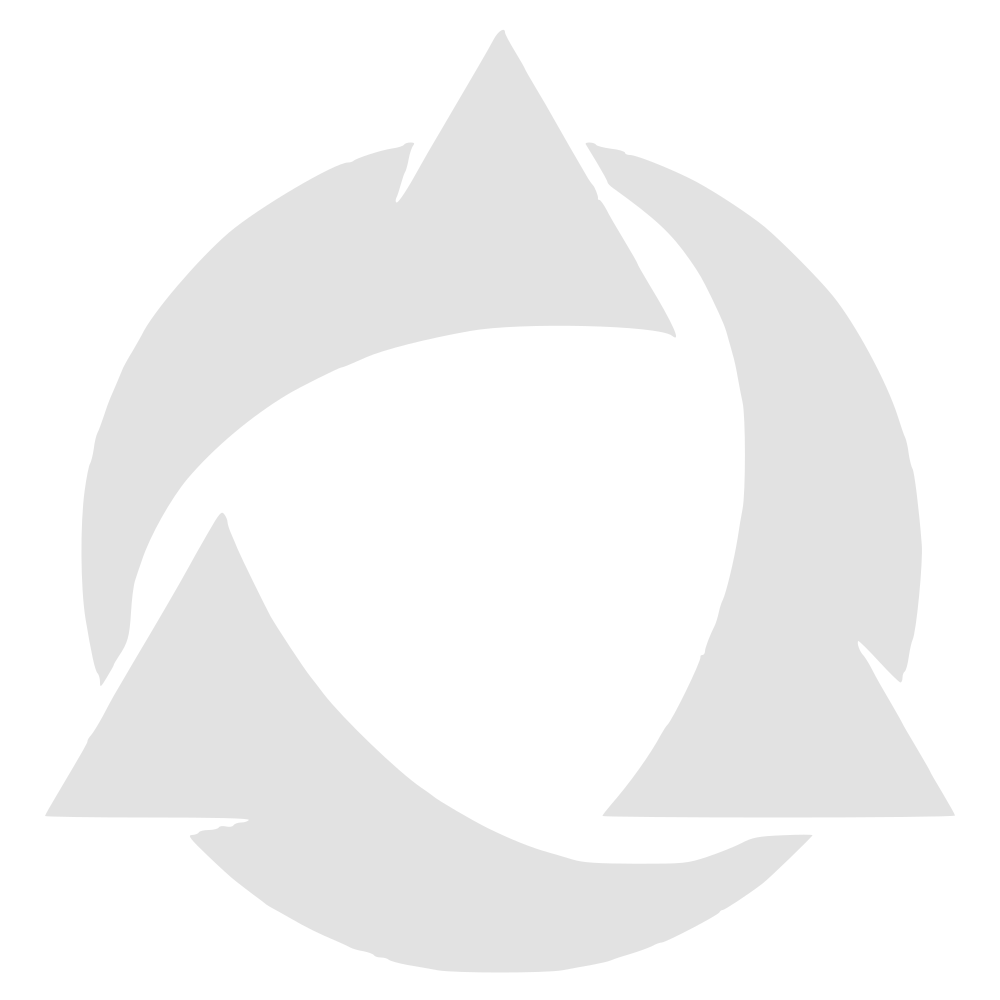
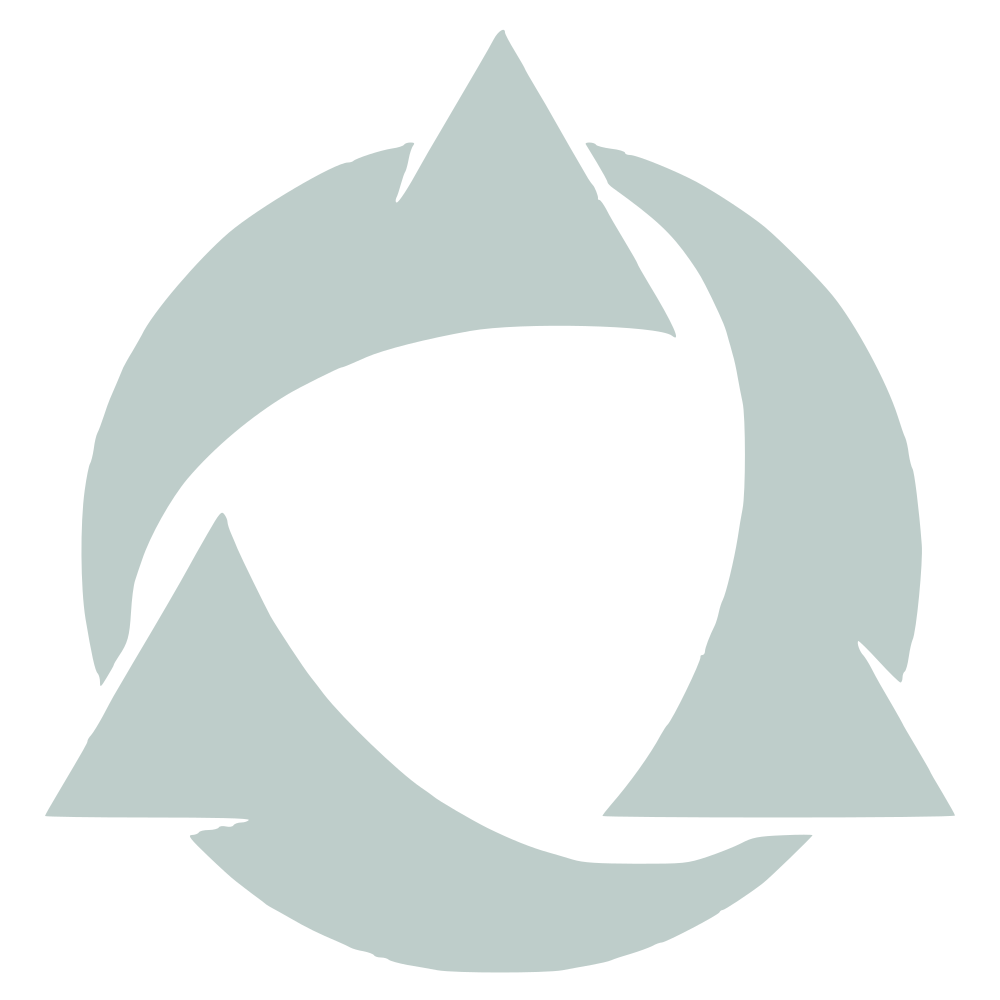
Update styling for teal FO theme

diff --git a/css/style.css b/css/style.css
@@ -20,3 +20,373 @@
 
 .md-main-content {
     background-color: #FAFAFA; }
+
+md-list-item p {
+    font-weight: normal; }
+
+md-list-item.active, md-list-item.active md-icon {
+    color: #2196F3; }
+
+.sidenav-sub-item {
+    padding-left: 36px; }
+
+.sidenav-sub-item md-icon {
+    padding-right: 16px; }
+
+md-toolbar.md-table-toolbar.ng-hide {
+    display: none; }
+
+md-toolbar.md-table-toolbar.alternate .md-toolbar-tools {
+    color: #1e88e5;
+    font-size: 16px;
+    background-color: #e3f2fd; }
+
+md-toolbar.md-table-toolbar form {
+    margin-left: 16px; }
+
+md-toolbar.md-table-toolbar form > input {
+    width: 100%;
+    margin: 0;
+    border: none;
+    color: rgba(0, 0, 0, 0.87); }
+
+md-toolbar.md-table-toolbar form > input:focus {
+    outline: none; }
+
+md-input-container .hint {
+    position: absolute;
+    left: 2px;
+    right: auto;
+    bottom: 7px;
+    /* Copy styles from ng-messages */
+    font-size: 12px;
+    line-height: 14px;
+    transition: all 0.3s cubic-bezier(0.55, 0, 0.55, 0.2);
+    /* Set our own color */
+    color: grey; }
+
+md-input-container .hint.ng-hide, md-input-container .hint.ng-enter, md-input-container .hint.ng-leave.ng-leave-active {
+    bottom: 26px;
+    opacity: 0; }
+
+md-input-container .hint.ng-leave, md-input-container .hint.ng-enter.ng-enter-active {
+    bottom: 7px;
+    opacity: 1; }
+
+.md-padding-left {
+    padding-left: 16px;
+}
+
+.md-padding-right {
+    padding-right: 16px;
+}
+
+.clickable-rows {
+    cursor: pointer;
+    text-decoration: underline;
+}
+
+.bold {
+    font-weight: bold;
+}
+
+.txtright {
+    text-align: right;
+}
+
+.text-blue {
+    color: #2196F3;
+}
+
+.no-list-style {
+    list-style:none;
+}
+
+.md-card-info {
+    background-color: #E3F2FD;
+    color: #0D47A1;
+}
+
+.md-html-table {
+    border: none;
+    border-collapse: collapse;
+    width: 100%;
+}
+
+.md-errors-spacer {
+    min-height: 0 !important;
+}
+
+.md-html-table td, .md-html-table th {
+    border: 1px solid #DDDDDD;
+    padding: 8px;
+}
+
+.md-html-table td[disabled] {
+    background: #CCCCCC;
+}
+
+/** TREE VIEW **/
+
+.md-treeview li>a, .md-treeview.md-treeview-default li>a, .md-treeview.md-treeview-default>a, .md-treeview>a {
+    color: #555;
+    background-color: transparent;
+    text-decoration: none;
+    -webkit-transition-property: background-color;
+    transition-property: background-color;
+    -webkit-transition-duration: .3s;
+    transition-duration: .3s;
+    -webkit-transition-timing-function: linear;
+    transition-timing-function: linear;
+}
+.md-treeview li>a:active, .md-treeview li>a:focus, .md-treeview li>a:hover, .md-treeview.md-treeview-default li>a:active, .md-treeview.md-treeview-default li>a:focus, .md-treeview.md-treeview-default li>a:hover, .md-treeview.md-treeview-default>a:active, .md-treeview.md-treeview-default>a:focus, .md-treeview.md-treeview-default>a:hover, .md-treeview>a:active, .md-treeview>a:focus, .md-treeview>a:hover {
+    outline: 0;
+    color: #555;
+    background-color: rgba(85, 85, 85, .07);
+}
+.md-treeview li:before, .md-treeview li>a:before, .md-treeview.md-treeview-default li:before, .md-treeview.md-treeview-default li>a:before {
+    border-color: #AAA;
+}
+.md-treeview li.active>a, .md-treeview.md-treeview-default li.active>a {
+    outline: 0;
+    color: #555;
+    background-color: rgba(85, 85, 85, .07);
+}
+.md-treeview li.disabled>a, .md-treeview li.disabled>a:focus, .md-treeview li.disabled>a:hover, .md-treeview.md-treeview-default li.disabled>a, .md-treeview.md-treeview-default li.disabled>a:focus, .md-treeview.md-treeview-default li.disabled>a:hover {
+    cursor: not-allowed;
+    color: #b7b7b7!important;
+    background-color: transparent!important;
+}
+.md-treeview {
+    list-style: none;
+    padding: 0;
+    margin: 0;
+}
+.md-treeview .md-treeview-root>ul {
+    padding-left: 10px;
+}
+.md-treeview .md-treeview-branch>ul {
+    padding-left: 33px;
+}
+.md-treeview li {
+    position: relative;
+    padding-bottom: 10px;
+}
+.md-treeview li a {
+    position: relative;
+    display: inline-block;
+    white-space: nowrap;
+    vertical-align: top;
+    padding: 5px;
+}
+.md-treeview ul {
+    list-style: none;
+}
+.md-treeview ul li:first-child {
+    padding-top: 10px;
+}
+.md-treeview ul li:last-child {
+    padding-bottom: 0;
+}
+.md-treeview ul li:last-child:before {
+    display: none;
+}
+.md-treeview ul li:last-child>a:before {
+    top: 0;
+    height: 50%}
+.md-treeview ul li:before {
+    content: "";
+    position: absolute;
+    top: 0;
+    height: 100%}
+.md-treeview ul li:only-child:before {
+    display: inline;
+    height: 50%}
+.md-treeview ul li>a {
+    text-indent: 23px;
+    padding-right: 8px;
+}
+.md-treeview ul li>a:before {
+    content: "";
+    width: 20px;
+    position: absolute;
+    top: 50%;
+    left: 0;
+}
+.md-treeview ul li:before, .md-treeview ul li:last-child>a:before {
+    border-left-width: 1px;
+}
+.md-treeview ul li:before, .md-treeview ul li:last-child>a:before, .md-treeview-solid-line.md-treeview ul li:before, .md-treeview-solid-line.md-treeview ul li:last-child>a:before {
+    border-left-style: solid;
+}
+.md-treeview ul li>a:before {
+    border-bottom-width: 1px;
+}
+.md-treeview ul li>a:before, .md-treeview-solid-line.md-treeview ul li>a:before {
+    border-bottom-style: solid;
+}
+.md-treeview li>a:first-child>md-icon {
+    display: inline;
+    font-size: 13px;
+}
+
+.md-treeview li>button.md-icon-button {
+    vertical-align: top;
+    height: 20px;
+    width: 26px;
+    padding: 0;
+    margin: 0 4px;
+    line-height: 16px;
+}
+
+.md-treeview li > button > md-icon {
+    font-size: 18px;
+}
+
+/** Dropzone Area */
+.md-upload-dropbox {
+    background: #EEEEEE;
+    text-align: center;
+    cursor: pointer;
+}
+
+.md-upload-dropbox.dragover {
+    background: #607D8B;
+    color: white;
+}
+
+/** Calculation of risk */
+.tbl-risk-calc {
+    text-align: center;
+    vertical-align: middle;
+}
+
+.tbl-risk-calc td, .tbl-risk-calc th {
+    width: 25px;
+    height: 25px;
+}
+
+.tbl-risk-calc td.wide {
+    width: 72px;
+}
+
+.tbl-risk-calc .green, .tbl-risk-calc.green {
+    background: #A5D6A7;
+}
+
+.tbl-risk-calc .orange, .tbl-risk-calc.orange {
+    background: #FFCC80;
+}
+
+.tbl-risk-calc .red, .tbl-risk-calc.red {
+    background: #EF9A9A;
+}
+
+.anr-scales-demo-block {
+    width: 24px;
+    height: 24px;
+}
+
+.anr-scales-demo-block.green {
+    background: #A5D6A7;
+}
+
+.anr-scales-demo-block.orange {
+    background: #FFCC80;
+}
+
+/** Inline edit customization */
+div.ng-inline-edit {
+    display: inline;
+}
+
+span.ng-inline-edit__text {
+    cursor: pointer;
+}
+
+span.ng-inline-edit__text--placeholder {
+    font-style: italic;
+    color: #888888;
+}
+
+div.ng-inline-edit input, div.ng-inline-edit textarea {
+    border-top: none;
+    border-left: none;
+    border-right: none;
+    border-bottom: 1px solid #2196F3;
+    outline: none;
+}
+
+.small div.ng-inline-edit input {
+    width: 64px;
+}
+
+.anr-table-toptitle {
+    text-align: center
+}
+
+.anr-table-sidetitle {
+    transform: rotate(270deg);
+    vertical-align: middle;
+    text-align: center;
+}
+
+.anr-formula-container {
+    padding: 5px;
+    margin-left: 16px;
+    margin-top: 16px;
+}
+
+.anr-formula {
+    text-align: center;
+    border: 1px solid #d6d6d6;
+    border-radius: 20px;
+    background-color: #F4F4F4;
+    color: #8A8A8A;
+    padding: 5px;
+}
+
+.anr-formula-container .green {
+    color: #4CAF50;
+    font-weight: bold;
+}
+
+.horz-expanding-table {
+    overflow-x: scroll;
+}
+
+.horz-expanding-table .md-html-table td, .horz-expanding-table .md-html-table td span span {
+    min-width: 200px;
+}
+
+/** Drag & Drop */
+.angular-ui-tree-drag {
+    border: 2px solid #808080;
+    font-weight: bold;
+}
+
+.angular-ui-tree-placeholder {
+    border: 2px dashed #33B5E5;
+}
+
+.angular-ui-tree-handle {
+    font-weight: normal;
+}
+
+.angular-ui-tree {
+    min-height: 30px;
+}
+
+/** Material Design Overrides */
+body {
+    font-size: 12px;
+}
+h1.md-toolbar-tools {
+    font-size: 18px;
+}
+.md-padding {
+    padding: 8px;
+}
+md-chips.md-default-theme .md-chips, md-chips .md-chips {
+    box-shadow: none !important;
+}
